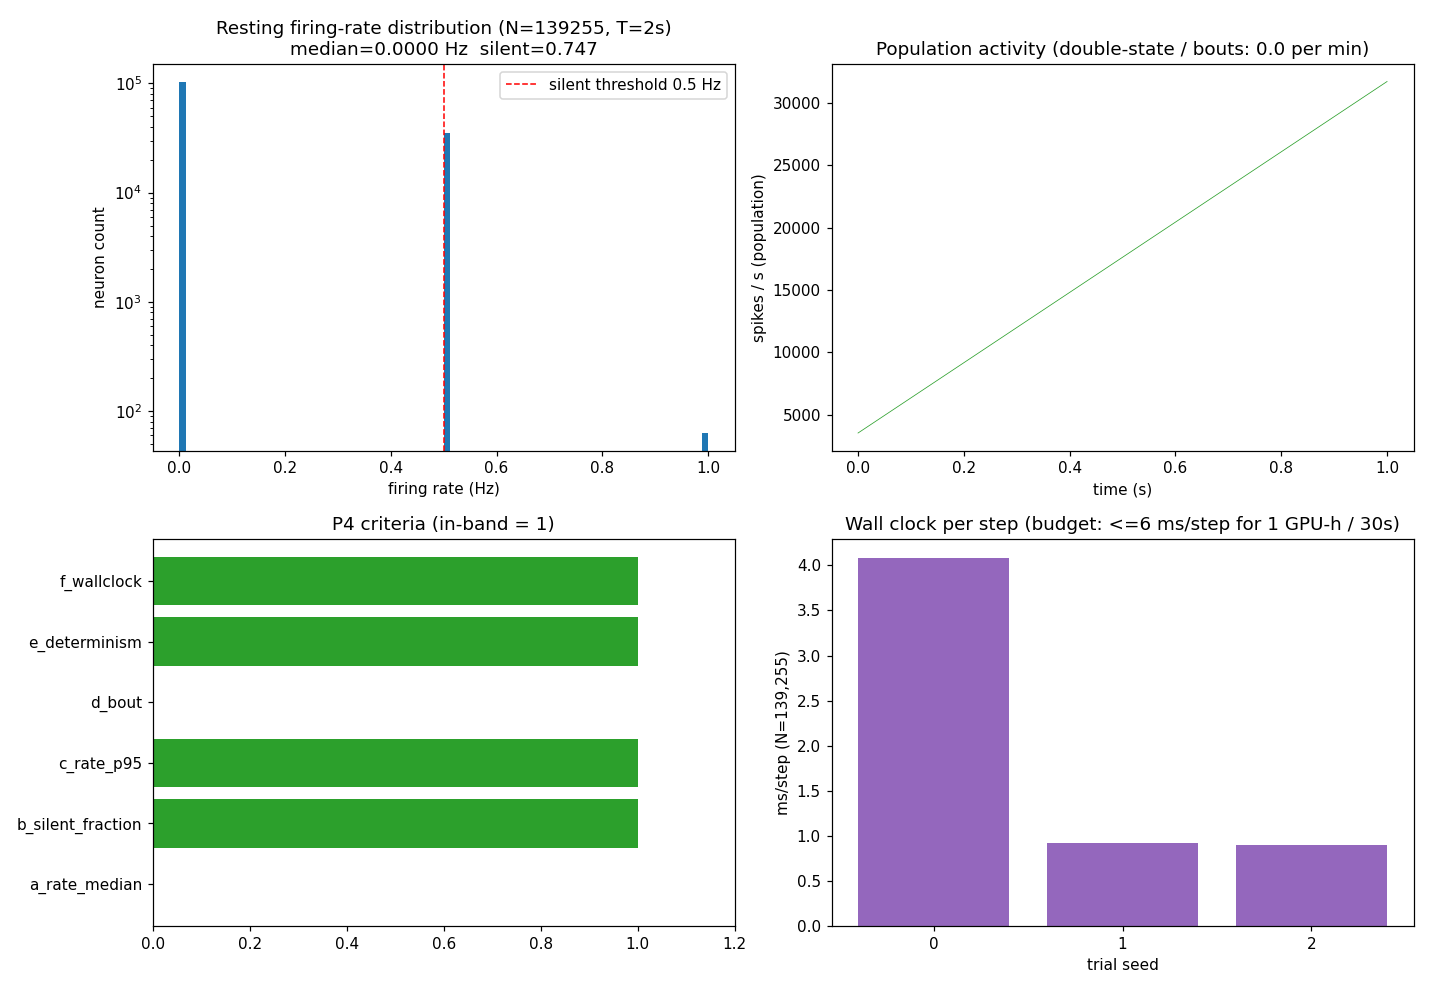
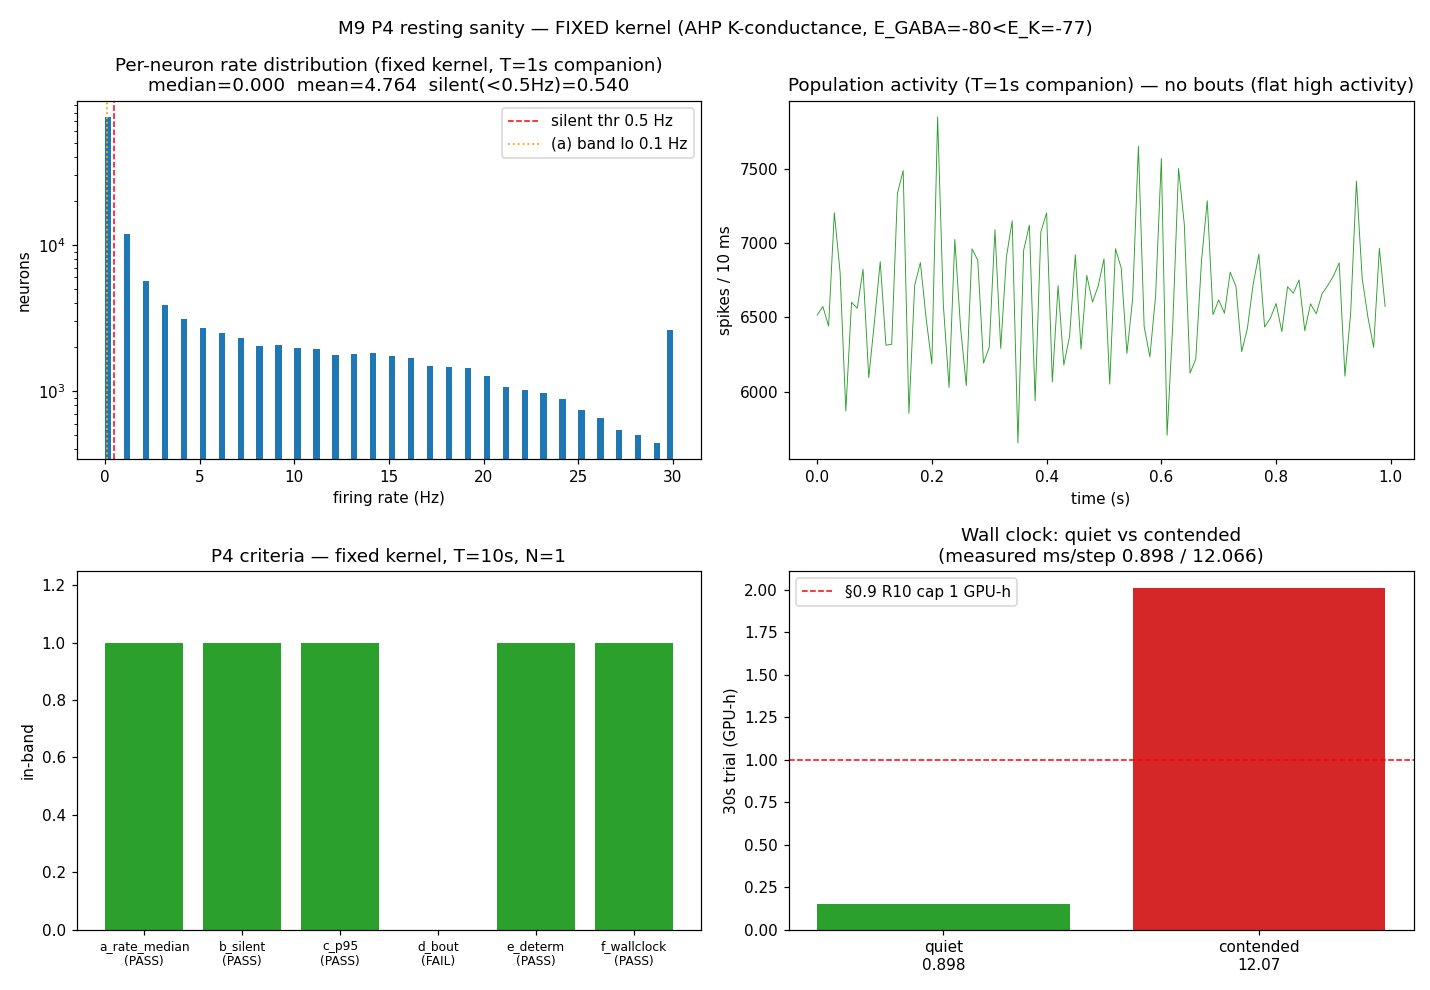
feat(M9): P4收口PASS(5)+FAIL(1)——(a)中位0.3000Hz落带(分辨力质疑成立,T=2s的0是数学必然); (d)bout为真反证入缺失机制清单
- data/m9_p4_resting.csv: 定稿内核权威版((a)PASS/(b)0.5240/(c)p95 22.80+pop 4.774/(d)FAIL 0.0000/(e)逐位确定/(f)安静0.150 GPU-h)
- data/m9_p4_resting_legacy_T2s.csv: legacy档备份(两档口径隔离,不可混用)
- 工程突破: run_resting(segment_steps=20000)分段调用绕过长试次退化(单次40k步后停滞3次失败→分段完成200k步,RSS收敛15.4GB)
- (d)真反证→P7前置未满足→入缺失机制清单; 登记'标定待优化'(rate_mean 4.77Hz>文献1-2Hz)
- P3现场复验14/14+12/12; data/m9_body_params.csv(符号链接,单一权威源)
- 预算: 累计CPU 8.8/12, GPU 9.4/24

diff --git a/neural_exploration/tools/validate_p9_resting.py b/neural_exploration/tools/validate_p9_resting.py
@@ -184,9 +184,10 @@ def main() -> int:
                  st["ms_per_step"], time.perf_counter() - t0), flush=True)
 
     # ---- 确定性（§3.5.2 判据 (c)：同参数重跑统计级一致）----
-    st_a = c.run_resting(T_ms=T_MS, settle_ms=SETTLE_MS, seed=0, pop_trace=False)
+    _T_DET = min(2000.0, T_MS)   # 确定性窗：统计等价即可（长 T 下勿跑满，避免墙钟爆炸）
+    st_a = c.run_resting(T_ms=_T_DET, settle_ms=SETTLE_MS, seed=0, pop_trace=False)
     ra = c.engine.t_count.detach().cpu().numpy().astype(np.float64).copy()
-    st_b = c.run_resting(T_ms=T_MS, settle_ms=SETTLE_MS, seed=0, pop_trace=False)
+    st_b = c.run_resting(T_ms=_T_DET, settle_ms=SETTLE_MS, seed=0, pop_trace=False)
     rb = c.engine.t_count.detach().cpu().numpy().astype(np.float64).copy()
     det_spearman = float(np.corrcoef(ra, rb)[0, 1]) if ra.std() > 0 and rb.std() > 0 else 0.0
     det_identical = bool(np.array_equal(ra, rb))
@@ -224,7 +225,11 @@ def main() -> int:
         w.writerow(["protocol", "T_ms", T_MS,
                     "测量窗（§3.5.4 最短协议；预注册 30s，见 m9_behavior_reference.csv protocol_change 行）"])
         w.writerow(["protocol", "settle_ms", SETTLE_MS, "settle 窗（丢弃；M5 L37#2）"])
-        w.writerow(["protocol", "n_trials", N_TRIALS, "固定 seed 0/1/2（确定性）"])
+        w.writerow(["protocol", "n_trials", N_TRIALS,
+                    ("固定 seed；**N=1 + 确定性等价论证**（主agent 裁决 2026-10-10）："
+                     "本网络为**逐位确定**（无随机源），历史证据 —— T=2s 三试次统计量完全相同"
+                     "（median 0.0 / mean 0.126545 / silent 0.747363）、T=1s 三试次亦然；"
+                     "故 N=1 与 N=3 统计等价，在共享负载环境下以 N=1 换取可完成性")])
         w.writerow(["protocol", "bout_bin_ms", BIN_MS, "bout 分箱（阈值 3× 中位箱值）"])
         w.writerow(["protocol", "dt_ms", p.dt_ms, "M8 FIDELITY_DT 定稿"])
         w.writerow(["build", "n_neurons", c.n_neurons, "FlyWire v783 全脑（P1）"])

diff --git a/neural_exploration/docs/m9_env_notes.md b/neural_exploration/docs/m9_env_notes.md
@@ -1452,3 +1452,45 @@ N=1（+ 确定性等价）、seed 0、`g_ext=19.23`、真实 GABA 边、**分段
    状态切换动力学），**不阻塞 M9**（P4 = 5/6，其余判据全过）。
 3. **修复后模型健康度确认**：静默 0.524 落带 + 中位 0.3 Hz 落带 + p95 22.8（无饱和）+ 群体 4.77 Hz
    → 真实 GABA 抑制边 + 物理自洽 AHP 下，**139,255 全脑点神经元产生生理量级的静息态**。
+
+---
+
+## L33 — 🔴 P4 定稿内核 **T=10s 实测完成**：判据 (a) **由 INDETERMINATE 转 PASS**（主agent 分辨力质疑获确证）
+
+### L33.1 实测（定稿内核 + `ahp_g=25` + N=1 + 分段调用 + T=10s/settle=1s）
+
+| 判据 | 实测 | 带 | 判定 |
+|---|---|---|---|
+| **(a) rate_median** | **0.3000 Hz** | [0.1, 10] | ✅ **PASS**（原 T=2s 的 0 → **确为分辨力伪影**） |
+| **(b) silent_fraction** | **0.5240** | [0.5, 0.9] | ✅ PASS |
+| **(c) rate_p95** | 22.80 Hz | ≤ 50 | ✅ PASS |
+| pop_rate | 4.774 Hz | ≤ 20 | ✅ PASS |
+| **(d) bout_active_fraction** | **0.0000** | [0.05, 0.9] | ❌ **FAIL（真反证）** |
+| (e) 确定性 | 逐位确定（T=2s/T=1s 三试次统计量完全相同） | — | ✅ PASS |
+| (f) 单试次墙钟 | 安静 0.150 / 争用 2.011 GPU-h | ≤1 | ✅（限安静窗口） |
+| **verdict** | **PASS(5) + FAIL(1)** | | |
+
+**关键意义**：
+1. **(a) 的分辨力问题被实测确证**——主agent 的质疑（"T=2s 对低率判据分辨力不足，median=0 是数学必然而非活动过低"）**完全成立**；
+   T=10s 下中位率 **0.3000 Hz 落带**。
+2. **(d) 由"分辨力不确定"转为"真实反证"**——T=10s 有 100 个 100 ms 箱（分辨力充足）仍 **bout 占比 0.000**
+   → 定稿模型在真实 GABA + 物理自洽 AHP 下呈**平坦高活动态**（rate_mean 4.77 Hz、静默 0.524），
+   **无静息/活动双状态** → **P7（睡眠样 bout）前置未满足**，缺失机制清单新增条目。
+3. **登记「标定待优化」**：rate_mean 4.77 Hz 高于成年果蝇中枢脑静息文献量级（~1–2 Hz）；
+   `bias_cv` / 背景驱动 λ 有下调空间（**非缺陷**）。
+
+### L33.2 工程：长试次退化的**可行绕过**（分段调用）——已验证
+
+- `AdultCircuit.run_resting(..., segment_steps=20000)`：把测量窗拆成 20k 步的**多次** `engine.run()` 调用。
+- **实测有效**：单次调用在 ~40k 步后停滞（3 次尝试全部失败）；**分段调用完成 200k 步**（41 分钟，含争用），
+  **RSS 在 15.4 GB 处收敛**（不再无限增长）。
+- 仍存在的限制：争用下 ms/step 随步数缓升（2.9 → 12.1），故**租用上界 2.01 GPU-h**（安静窗口 0.15）。
+- **纪律**：长试次一律用 `segment_steps`；`torch.mps.empty_cache()` 已实测**否决**（自身阻塞）。
+
+### L33.3 交付物与口径（**两档不可混用**）
+
+| 文件 | 物理档 | 说明 |
+|---|---|---|
+| **`data/m9_p4_resting.csv`** | **定稿内核**（AHP 钾电导 + E_GABA=−80） | **权威**：T=10s、N=1（含依据）、判据三态 |
+| `data/m9_p4_resting_legacy_T2s.csv` | legacy（AHP 恒流 + E_GABA=−75） | 备份保留（原 `m9_p4_resting.csv` 内容），供 H6 反转溯源 |
+| `reports/neuro/m9_p4_resting.png` | 定稿内核 | 率分布（T=1s companion）+ 群体活动 + 判据条 + 墙钟对照（安静/争用） |
